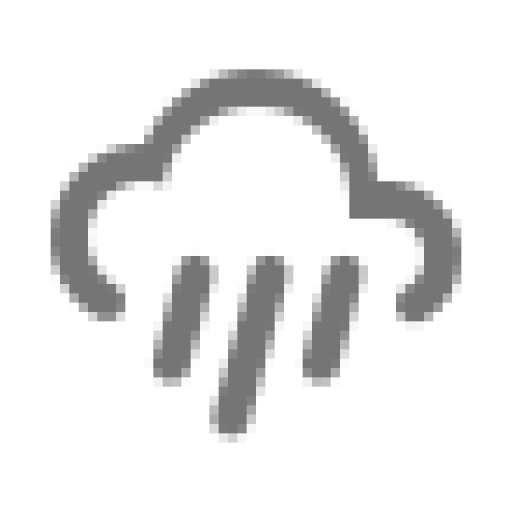
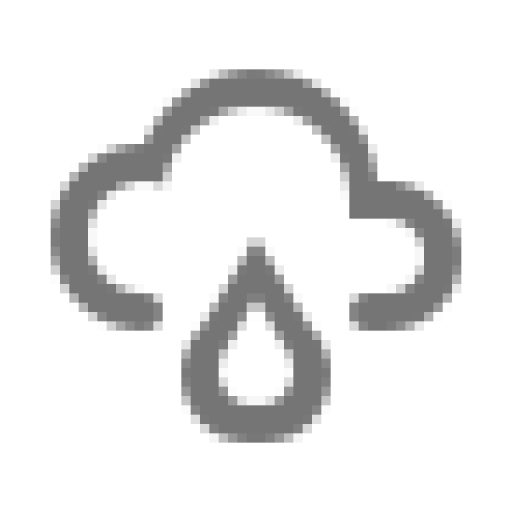
:art: add more images

Changed region(s): [[0.1875, 0.4375, 0.8125, 0.875]]

diff --git a/WeatherForecast/view/src/main/java/com/mauscoelho/weatherforecast/adapters/MainAdapter.java b/WeatherForecast/view/src/main/java/com/mauscoelho/weatherforecast/adapters/MainAdapter.java
@@ -1,23 +1,38 @@
 package com.mauscoelho.weatherforecast.adapters;
 
+import android.annotation.TargetApi;
+import android.app.Activity;
+import android.content.Intent;
+import android.graphics.drawable.Drawable;
+import android.os.Build;
 import android.support.v7.widget.RecyclerView;
 import android.view.LayoutInflater;
 import android.view.View;
 import android.view.ViewGroup;
+import android.widget.ImageView;
+import android.widget.RelativeLayout;
 import android.widget.TextView;
 
+import com.mauscoelho.controllers.settings.App;
+import com.mauscoelho.controllers.settings.Extras;
 import com.mauscoelho.data.CityForecast;
 import com.mauscoelho.weatherforecast.R;
+import com.mauscoelho.weatherforecast.activities.ForecastDetailActivity;
 
 import butterknife.ButterKnife;
 import butterknife.InjectView;
 
 public class MainAdapter extends RecyclerView.Adapter<RecyclerView.ViewHolder> {
 
+    public static final String TYPE_RAIN = "Rain";
+    public static final String TYPE_CLOUDS = "Clouds";
+    public static final String TYPE_CLEAR = "Clear";
     private CityForecast[] forecasts;
+    private Activity activity;
 
-    public MainAdapter(CityForecast[] forecasts) {
+    public MainAdapter(CityForecast[] forecasts, Activity activity) {
         this.forecasts = forecasts;
+        this.activity = activity;
     }
 
     @Override
@@ -46,7 +61,7 @@ public class MainAdapter extends RecyclerView.Adapter<RecyclerView.ViewHolder> {
         View view = LayoutInflater.
                 from(viewGroup.getContext()).
                 inflate(R.layout.card_forecast, viewGroup, false);
-        return new MainViewHolder(view);
+        return new MainViewHolder(view, this);
     }
 
 
@@ -54,10 +69,36 @@ public class MainAdapter extends RecyclerView.Adapter<RecyclerView.ViewHolder> {
         viewHolder.forecast_city_name.setText(forecast.city.name);
         viewHolder.forecast_weather_value.setText(String.valueOf(Math.round(forecast.forecasts[0].main.temp)));
         viewHolder.forecast_weather_description.setText(forecast.forecasts[0].weather[0].description);
+        viewHolder.forecast_weather_image.setImageDrawable(getImageType(forecast.forecasts[0].weather[0].main));
+        viewHolder.card_content.setOnClickListener(new View.OnClickListener() {
+            @Override
+            public void onClick(View v) {
+                Intent intent = new Intent(activity, ForecastDetailActivity.class);
+                intent.putExtra(Extras.OBJECT_FORECAST_NAME, forecast.city.name);
+                activity.startActivity(intent);
+            }
+        });
+
+    }
+
+    @TargetApi(Build.VERSION_CODES.LOLLIPOP)
+    private Drawable getImageType(String type) {
+
+        switch (type){
+            case TYPE_RAIN:
+                return App.getsInstance().getDrawable(R.mipmap.ic_weather_rain);
+            case TYPE_CLOUDS:
+                return App.getsInstance().getDrawable(R.mipmap.ic_weather_cloudy);
+            case TYPE_CLEAR:
+                return App.getsInstance().getDrawable(R.mipmap.ic_weather_sunny);
+
+        }
+
+        return App.getsInstance().getDrawable(R.mipmap.ic_weather_sunny);
     }
 
 
-    public static class MainViewHolder extends RecyclerView.ViewHolder {
+    public static class MainViewHolder extends RecyclerView.ViewHolder{
 
         @InjectView(R.id.forecast_city_name)
         TextView forecast_city_name;
@@ -65,8 +106,12 @@ public class MainAdapter extends RecyclerView.Adapter<RecyclerView.ViewHolder> {
         TextView forecast_weather_value;
         @InjectView(R.id.forecast_weather_description)
         TextView forecast_weather_description;
+        @InjectView(R.id.forecast_weather_image)
+        ImageView forecast_weather_image;
+        @InjectView(R.id.card_content)
+        RelativeLayout card_content;
 
-        public MainViewHolder(View v) {
+        public MainViewHolder(View v, MainAdapter mainAdapter) {
             super(v);
             ButterKnife.inject(this, v);
         }

diff --git a/WeatherForecast/view/src/main/java/com/mauscoelho/weatherforecast/activities/ForecastDetailActivity.java b/WeatherForecast/view/src/main/java/com/mauscoelho/weatherforecast/activities/ForecastDetailActivity.java
@@ -3,22 +3,48 @@ package com.mauscoelho.weatherforecast.activities;
 
 import android.os.Bundle;
 import android.support.v7.app.AppCompatActivity;
+import android.widget.ImageView;
+import android.widget.TextView;
 
+import com.mauscoelho.controllers.settings.Extras;
+import com.mauscoelho.data.City;
 import com.mauscoelho.weatherforecast.DaggerIOpenWeatherMapComponent;
 import com.mauscoelho.weatherforecast.IOpenWeatherMapComponent;
 import com.mauscoelho.weatherforecast.R;
 
+import javax.inject.Inject;
+
 import butterknife.ButterKnife;
+import butterknife.InjectView;
+import butterknife.OnClick;
 
 public class ForecastDetailActivity extends AppCompatActivity {
+
+    @InjectView(R.id.toolbar_title)
+    TextView toolbar_title;
+    @Inject
+
 
     @Override
     protected void onCreate(Bundle savedInstanceState) {
         super.onCreate(savedInstanceState);
-        setContentView(R.layout.activity_main);
+        setContentView(R.layout.activity_forecast_detail);
         injectDependencies();
         injectView();
+        bindView();
     }
+
+    private void bindView() {
+        String cityName = (String)getIntent().getSerializableExtra(Extras.OBJECT_FORECAST_NAME);
+        toolbar_title.setText(cityName);
+
+    }
+
+    @OnClick(R.id.toolbar_back)
+    public void finishActivity(ImageView toolbar_back) {
+        finish();
+    }
+
 
     private void injectView() {
         ButterKnife.inject(this);

diff --git a/WeatherForecast/controllers/src/main/java/com/mauscoelho/controllers/controllers/OpenWeatherMapController.java b/WeatherForecast/controllers/src/main/java/com/mauscoelho/controllers/controllers/OpenWeatherMapController.java
@@ -38,10 +38,15 @@ public class OpenWeatherMapController {
 
     public CityForecast[] getCities() {
         CityForecast[] cityForecasts = internalStorageService.getCities();
-        if(cityForecasts.length > 0)
+        if(cityForecasts != null)
             updateData(cityForecasts);
 
         return cityForecasts;
+    }
+
+    public CityForecast getCity(String name){
+        
+        return null;
     }
 
     private void updateData(final CityForecast[] cityForecasts) {

diff --git a/WeatherForecast/view/src/main/java/com/mauscoelho/weatherforecast/activities/AddActivity.java b/WeatherForecast/view/src/main/java/com/mauscoelho/weatherforecast/activities/AddActivity.java
@@ -13,7 +13,7 @@ import android.widget.TextView;
 import com.mauscoelho.controllers.controllers.OpenWeatherMapController;
 import com.mauscoelho.controllers.interfaces.IAction;
 import com.mauscoelho.data.CityForecast;
-import com.mauscoelho.weatherforecast.DaggerIOpenWeatherMapComponent;
+import com.mauscoelho.weatherforecast .DaggerIOpenWeatherMapComponent;
 import com.mauscoelho.weatherforecast.IOpenWeatherMapComponent;
 import com.mauscoelho.weatherforecast.R;
 

diff --git a/WeatherForecast/view/src/main/java/com/mauscoelho/weatherforecast/activities/MainActivity.java b/WeatherForecast/view/src/main/java/com/mauscoelho/weatherforecast/activities/MainActivity.java
@@ -50,7 +50,7 @@ public class MainActivity extends AppCompatActivity {
     private void buildForecasts() {
         CityForecast[] cityForecasts = openWeatherMapController.getCities();
         if(cityForecasts != null){
-            rv_forecast.setAdapter(new MainAdapter(cityForecasts));
+            rv_forecast.setAdapter(new MainAdapter(cityForecasts, this));
         }
     }
 

diff --git a/WeatherForecast/models/src/main/java/com/mauscoelho/data/Forecast.java b/WeatherForecast/models/src/main/java/com/mauscoelho/data/Forecast.java
@@ -1,7 +1,9 @@
 package com.mauscoelho.data;
 
 
-public class Forecast{
+import java.io.Serializable;
+
+public class Forecast implements Serializable {
     public long dt;
     public Main main;
     public Weather[] weather;

diff --git a/WeatherForecast/models/src/main/java/com/mauscoelho/data/Main.java b/WeatherForecast/models/src/main/java/com/mauscoelho/data/Main.java
@@ -1,7 +1,9 @@
 package com.mauscoelho.data;
 
 
-public class Main {
+import java.io.Serializable;
+
+public class Main implements Serializable {
     public int humidity;
     public float pressure;
     public float temp_max;

diff --git a/WeatherForecast/models/src/main/java/com/mauscoelho/data/CityForecast.java b/WeatherForecast/models/src/main/java/com/mauscoelho/data/CityForecast.java
@@ -1,7 +1,9 @@
 package com.mauscoelho.data;
 
 
-public class CityForecast {
+import java.io.Serializable;
+
+public class CityForecast implements Serializable {
     public City city;
     public Forecast[] forecasts;
 }

diff --git a/WeatherForecast/models/src/main/java/com/mauscoelho/data/City.java b/WeatherForecast/models/src/main/java/com/mauscoelho/data/City.java
@@ -1,6 +1,8 @@
 package com.mauscoelho.data;
 
-public class City {
+import java.io.Serializable;
+
+public class City implements Serializable {
     public long id;
     public String name;
     public Coord coord;

diff --git a/WeatherForecast/models/src/main/java/com/mauscoelho/data/Coord.java b/WeatherForecast/models/src/main/java/com/mauscoelho/data/Coord.java
@@ -1,6 +1,8 @@
 package com.mauscoelho.data;
 
-public class Coord {
+import java.io.Serializable;
+
+public class Coord implements Serializable {
     public float lat;
     public float lon;
 }

diff --git a/WeatherForecast/models/src/main/java/com/mauscoelho/data/Weather.java b/WeatherForecast/models/src/main/java/com/mauscoelho/data/Weather.java
@@ -1,7 +1,7 @@
 package com.mauscoelho.data;
 
 
-public class Weather {
+public class Weather  {
     public int id;
     public String icon;
     public String description;

diff --git a/WeatherForecast/controllers/src/main/java/com/mauscoelho/controllers/settings/Extras.java b/WeatherForecast/controllers/src/main/java/com/mauscoelho/controllers/settings/Extras.java
@@ -1,0 +1,6 @@
+package com.mauscoelho.controllers.settings;
+
+
+public final class Extras {
+    public static final String OBJECT_FORECAST_NAME = "FORECAST";
+}
